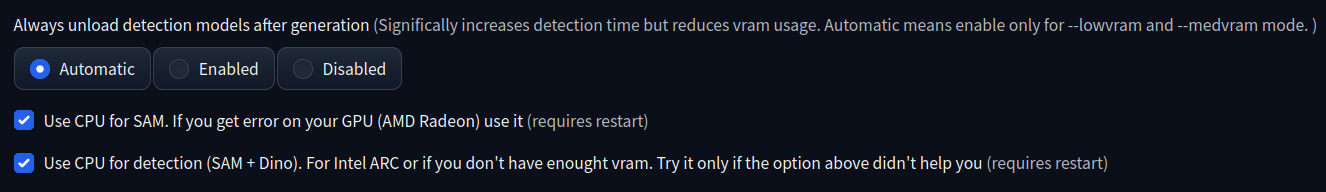
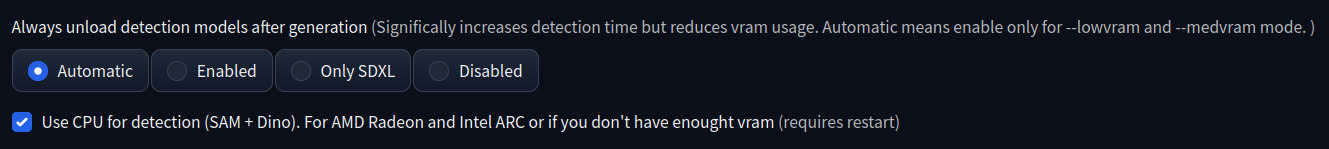
remove use cpu only for sam

Changed region(s): [[0.0, 0.0805, 1.0, 0.698], [0.0, 0.7517, 0.8348, 0.9128]]

diff --git a/replacer/options.py b/replacer/options.py
@@ -56,11 +56,6 @@ def doNotShowUnloadButton():
 
 
 
-def useCpuForSam():
-    opt = shared.opts.data.get(EXT_NAME_LOWER + "_use_cpu_for_sam", False)
-    return opt
-
-
 def useCpuForDetection():
     opt = shared.opts.data.get(EXT_NAME_LOWER + "_use_cpu_for_detection", False)
     return opt
@@ -214,21 +209,10 @@ def on_ui_settings():
 
 
     shared.opts.add_option(
-        EXT_NAME_LOWER + "_use_cpu_for_sam",
-        shared.OptionInfo(
-            False,
-            f"Use CPU for SAM. If you get error on your GPU (AMD Radeon) use it",
-            gr.Checkbox,
-            section=section,
-        ).needs_restart()
-    )
-
-
-    shared.opts.add_option(
         EXT_NAME_LOWER + "_use_cpu_for_detection",
         shared.OptionInfo(
             False,
-            f"Use CPU for detection (SAM + Dino). For Intel ARC or if you don't have enought vram. Try it only if the option above didn't help you",
+            f"Use CPU for detection (SAM + Dino). For AMD Radeon and Intel ARC or if you don't have enought vram",
             gr.Checkbox,
             section=section,
         ).needs_restart()

diff --git a/replacer/mask_creator.py b/replacer/mask_creator.py
@@ -1,6 +1,6 @@
 from PIL import Image, ImageOps
 from modules import devices
-from replacer.options import needAutoUnloadModels, EXT_NAME, useCpuForDetection, useCpuForSam
+from replacer.options import needAutoUnloadModels, EXT_NAME, useCpuForDetection
 from replacer.tools import areImagesTheSame, limitSizeByOneDemention
 sam_predict = None
 update_mask = None
@@ -13,7 +13,7 @@ def initSamDependencies():
         sam_predict = scripts.sam.sam_predict
         update_mask = scripts.sam.update_mask
         clear_cache = scripts.sam.clear_cache
-        if useCpuForDetection() or useCpuForSam():
+        if useCpuForDetection():
             scripts.sam.sam_device = 'cpu'
             print(f'[{EXT_NAME}] Use CPU for SAM')
 
